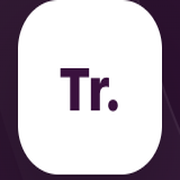
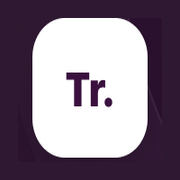
ArenaBridge: update main (8 files)

diff --git a/trackr-app.js b/trackr-app.js
@@ -76,6 +76,10 @@ function applyTheme(theme,save=true){
 }
 function toggleTheme(){applyTheme(document.documentElement.dataset.theme==='dark'?'light':'dark');}
 function initializeTheme(){const saved=localStorage.getItem('trackr-theme');applyTheme(saved==='light'?'light':'dark',false);}
+function syncMobileViewport(){
+  const viewport=window.visualViewport;const height=Math.round(viewport?.height||window.innerHeight);
+  document.documentElement.style.setProperty('--trackr-viewport-height',`${height}px`);
+}
 
 function toast(message, ms=2300){ const el=$('#toast');if(!el)return;el.textContent=message;el.classList.add('show');clearTimeout(toastTimer);toastTimer=setTimeout(()=>el.classList.remove('show'),ms); }
 function setSyncStatus(kind,label){ const el=$('#syncIndicator');if(!el)return;el.className=`sync-indicator ${kind||''}`;const text=$('span',el);if(text)text.textContent=label; }
@@ -147,7 +151,15 @@ function openModal({title,subtitle='',body='',footer='',wide=false,locked=false,
 function closeModal(){ $('#modalRoot').innerHTML='';menuActions=[]; }
 function confirmModal(title,message,confirmText='Delete',danger=true){return new Promise(resolve=>{openModal({title,body:`<div class="danger-copy">${esc(message)}</div>`,footer:`<button class="btn secondary" data-confirm-no>Cancel</button><button class="btn ${danger?'danger':'primary'}" data-confirm-yes>${esc(confirmText)}</button>`});$('[data-confirm-no]').onclick=()=>{closeModal();resolve(false)};$('[data-confirm-yes]').onclick=()=>{closeModal();resolve(true)};});}
 function actionMenu(title,items){menuActions=items;openModal({title,body:`<div class="menu-list">${items.map((it,i)=>`<button class="menu-item ${it.danger?'danger':''}" data-menu-action="${i}"><span class="menu-icon">${icon(it.icon||'info')}</span><span>${esc(it.label)}</span></button>`).join('')}</div>`});}
-function setBusy(form,busy,label){const btn=$('button[type="submit"]',form);if(!btn)return;if(busy){btn.dataset.old=btn.textContent;btn.textContent=label||'Connecting…';btn.disabled=true}else{btn.textContent=btn.dataset.old||btn.textContent;btn.disabled=false}}
+function setBusy(form,busy,label){
+  const btn=$('button[type="submit"]',form);if(!btn)return;
+  if(busy){
+    if(!btn.dataset.oldHtml){btn.dataset.oldHtml=btn.innerHTML;btn.dataset.oldLabel=btn.getAttribute('aria-label')||'Connect and open trackr.';}
+    const busyLabel=label||'Connecting…';btn.innerHTML='<span class="connect-spinner" aria-hidden="true"></span>';btn.setAttribute('aria-label',busyLabel);btn.title=busyLabel;btn.disabled=true;
+  }else{
+    if(btn.dataset.oldHtml)btn.innerHTML=btn.dataset.oldHtml;btn.setAttribute('aria-label',btn.dataset.oldLabel||'Connect and open trackr.');btn.title=btn.dataset.oldLabel||'Connect and open trackr.';delete btn.dataset.oldHtml;delete btn.dataset.oldLabel;btn.disabled=false;
+  }
+}
 
 async function connectGitHub(form){
   const error=$('#githubAuthError');error.textContent='';const config={owner:$('#githubOwner').value.trim(),repo:$('#githubRepo').value.trim(),branch:'main',path:'trackr.json'};const token=$('#githubToken').value.trim();
@@ -167,7 +179,8 @@ function lockApp(){
   if(recording)stopRecording(false);githubToken=null;remoteSha=null;state=null;saveChain=Promise.resolve();$('#modalRoot').innerHTML='';$('#app').classList.add('hidden');$('#app').classList.remove('mobile-detail');$('#auth').classList.remove('hidden');$('#githubToken').value='';$('#githubAuthError').textContent='';setTimeout(()=>$('#githubToken').focus(),100);
 }
 function boot(){
-  initializeTheme();hydrateStaticIcons();applyTheme(document.documentElement.dataset.theme,false);
+  initializeTheme();hydrateStaticIcons();applyTheme(document.documentElement.dataset.theme,false);syncMobileViewport();
+  window.addEventListener('resize',syncMobileViewport,{passive:true});window.visualViewport?.addEventListener('resize',syncMobileViewport,{passive:true});window.addEventListener('orientationchange',()=>setTimeout(syncMobileViewport,120),{passive:true});
   try{const saved=JSON.parse(localStorage.getItem(CONFIG_KEY)||'null');if(saved){$('#githubOwner').value=saved.owner||'';$('#githubRepo').value=saved.repo||'';}}catch{localStorage.removeItem(CONFIG_KEY)}
   if('serviceWorker' in navigator)window.addEventListener('load',()=>navigator.serviceWorker.register('./trackr-service-worker.js').catch(error=>console.warn('Service worker registration failed',error)),{once:true});
 }
@@ -217,7 +230,7 @@ function renderChatSidebar(){
 function renderTrackerSidebar(){
   $('#sidebarHeader').innerHTML=sidebarHeader('Trackers','Systems built your way','new-tracker','New tracker','Search trackers');
   const trackers=state.trackers.filter(t=>t.name.toLowerCase().includes(searchText.toLowerCase()));
-  $('#sidebarContent').innerHTML=trackers.length?`<div class="side-section-title">My trackers</div>${trackers.map(t=>{const topics=t.categories.flatMap(c=>c.topics).length;return `<button class="side-row ${t.id===state.activeTrackerId?'active':''}" data-action="select-tracker" data-id="${t.id}"><span class="side-avatar" style="background:${esc(t.color)};color:#fff">${esc(t.name.charAt(0).toUpperCase())}</span><span class="side-copy"><span class="side-name">${esc(t.name)}</span><span class="side-preview">${t.categories.length} categories · ${topics} topics</span></span><span class="side-time">${getTrackerProgress(t)}%</span></button>`}).join('')}`:`<div class="empty-side">${searchText?'No trackers match your search.':'Create a tracker, then add your own categories and topics.'}</div>`;
+  $('#sidebarContent').innerHTML=trackers.length?`<div class="side-section-title">My trackers</div>${trackers.map(t=>{const topics=t.categories.flatMap(c=>c.topics).length;return `<button class="side-row ${t.id===state.activeTrackerId?'active':''}" data-action="select-tracker" data-id="${t.id}"><span class="side-avatar tracker-side-avatar">${esc(t.name.charAt(0).toUpperCase())}</span><span class="side-copy"><span class="side-name">${esc(t.name)}</span><span class="side-preview">${t.categories.length} categories · ${topics} topics</span></span><span class="side-time">${getTrackerProgress(t)}%</span></button>`}).join('')}`:`<div class="empty-side">${searchText?'No trackers match your search.':'Create a tracker, then add your own categories and topics.'}</div>`;
   $('#sidebarFooter').innerHTML=`<div class="sidebar-footer"><button class="sidebar-footer-btn" data-action="new-tracker">${icon('plus')}<span>Create another tracker</span></button></div>`;
   bindSideSearch();
 }
@@ -268,7 +281,7 @@ function renderTrackerContent(){
   if(!tracker){content.innerHTML=`<div class="empty-main"><div class="empty-card"><div class="empty-illustration">${icon('tracker')}</div><h2>Create your first tracker</h2><p>Add categories and topics for learning, health, projects, or any system you want to build.</p><button class="btn primary icon-text-btn" data-action="new-tracker">${icon('plus')}<span>Create tracker</span></button></div></div>`;return;}
   const progress=getTrackerProgress(tracker); const topicCount=tracker.categories.flatMap(c=>c.topics).length;
   const categories=tracker.categories.length?tracker.categories.map((c,i)=>categoryHTML(tracker,c,i)).join(''):`<div class="no-categories"><b>No categories yet</b>Add your first category, then place topics and notes inside it.</div>`;
-  content.innerHTML=`<header class="content-header tracker-header"><button class="icon-btn mobile-back" data-action="mobile-back" aria-label="Back">${icon('back')}</button><span class="content-title-avatar tracker-title-avatar" style="background:${esc(tracker.color)};color:#fff">${esc(tracker.name.charAt(0).toUpperCase())}</span><div class="content-heading"><h2>${esc(tracker.name)}</h2><p>${esc(tracker.description||`${tracker.categories.length} categories · ${topicCount} topics`)}</p></div><div class="tracker-progress"><div class="progress-label"><span>Overall progress</span><b>${progress}%</b></div><div class="progress-bar"><div class="progress-fill" style="width:${progress}%"></div></div></div><div class="content-actions"><button class="icon-btn" data-action="tracker-menu" data-id="${tracker.id}" aria-label="Tracker options">${icon('more')}</button></div></header><div class="tracker-board-wrap"><div class="tracker-toolbar"><p>Use category and topic menus to edit, move, reorder, or delete.</p><button class="btn primary icon-text-btn" data-action="new-category">${icon('plus')}<span>Add category</span></button></div><div class="category-board">${categories}</div></div>`;
+  content.innerHTML=`<header class="content-header tracker-header"><button class="icon-btn mobile-back" data-action="mobile-back" aria-label="Back">${icon('back')}</button><span class="content-title-avatar tracker-title-avatar">${esc(tracker.name.charAt(0).toUpperCase())}</span><div class="content-heading"><h2>${esc(tracker.name)}</h2><p>${esc(tracker.description||`${tracker.categories.length} categories · ${topicCount} topics`)}</p></div><div class="tracker-progress"><div class="progress-label"><span>Overall progress</span><b>${progress}%</b></div><div class="progress-bar"><div class="progress-fill" style="width:${progress}%"></div></div></div><div class="content-actions"><button class="icon-btn" data-action="tracker-menu" data-id="${tracker.id}" aria-label="Tracker options">${icon('more')}</button></div></header><div class="tracker-board-wrap"><div class="tracker-toolbar"><p>Use category and topic menus to edit, move, reorder, or delete.</p><button class="btn primary icon-text-btn" data-action="new-category">${icon('plus')}<span>Add category</span></button></div><div class="category-board">${categories}</div></div>`;
 }
 function categoryHTML(tracker,c,index){
   const done=c.topics.filter(t=>t.complete).length;

diff --git a/index.html b/index.html
@@ -11,14 +11,14 @@
   <meta name="apple-mobile-web-app-status-bar-style" content="black-translucent">
   <meta name="apple-mobile-web-app-title" content="trackr.">
   <meta name="format-detection" content="telephone=no">
-  <link rel="icon" type="image/png" sizes="32x32" href="./trackr-favicon.png?v=2">
-  <link rel="icon" type="image/png" sizes="192x192" href="./trackr-icon-192.png?v=2">
-  <link rel="shortcut icon" href="./trackr-favicon.png?v=2">
-  <link rel="apple-touch-icon" sizes="180x180" href="./trackr-icon-180.png?v=2">
-  <link rel="apple-touch-icon-precomposed" href="./trackr-icon-180.png?v=2">
-  <link rel="manifest" href="./trackr-manifest.json?v=2">
+  <link rel="icon" type="image/png" sizes="32x32" href="./trackr-favicon.png?v=5">
+  <link rel="icon" type="image/png" sizes="192x192" href="./trackr-icon-192.png?v=5">
+  <link rel="shortcut icon" href="./trackr-favicon.png?v=5">
+  <link rel="apple-touch-icon" sizes="180x180" href="./trackr-icon-180.png?v=5">
+  <link rel="apple-touch-icon-precomposed" href="./trackr-icon-180.png?v=5">
+  <link rel="manifest" href="./trackr-manifest.json?v=5">
   <title>trackr. — Your private space</title>
-  <link rel="stylesheet" href="./trackr-styles.css?v=2">
+  <link rel="stylesheet" href="./trackr-styles.css?v=5">
 </head>
 <body>
   <div id="auth" class="auth-shell">
@@ -42,23 +42,26 @@
         <div class="auth-icon"><span data-icon="github"></span></div>
         <p class="step-label">CONNECT PRIVATE DATA</p>
         <h2>Connect GitHub</h2>
-        <p class="auth-help">Enter a fine-grained PAT restricted to one private data repository. The token is never saved and is requested again after a refresh, close, or lock.</p>
-        <div class="auth-grid">
-          <div>
-            <label class="field-label" for="githubOwner">GitHub username</label>
-            <input class="auth-input" id="githubOwner" maxlength="80" placeholder="your-username" required autocapitalize="none" spellcheck="false">
+        <div class="auth-fields">
+          <div class="auth-pair-row">
+            <div class="auth-field">
+              <label class="field-label" for="githubOwner">GitHub username</label>
+              <input class="auth-input" id="githubOwner" maxlength="80" placeholder="your-username" required autocapitalize="none" spellcheck="false">
+            </div>
+            <div class="auth-field">
+              <label class="field-label" for="githubRepo">Private repository</label>
+              <input class="auth-input" id="githubRepo" maxlength="100" placeholder="trackr-private-data" required autocapitalize="none" spellcheck="false">
+            </div>
           </div>
-          <div>
-            <label class="field-label" for="githubRepo">Private repository</label>
-            <input class="auth-input" id="githubRepo" maxlength="100" placeholder="trackr-private-data" required autocapitalize="none" spellcheck="false">
+          <div class="auth-connect-row">
+            <div class="auth-field auth-token-field">
+              <label class="field-label" for="githubToken">Fine-grained personal access token</label>
+              <div class="pin-field"><input id="githubToken" type="password" placeholder="github_pat_…" required autocomplete="off" autocapitalize="none" spellcheck="false" data-1p-ignore data-lpignore="true"><button class="reveal-btn" type="button" data-reveal="githubToken" aria-label="Show token">Show</button></div>
+            </div>
+            <button class="auth-connect-btn" type="submit" title="Connect and open trackr." aria-label="Connect and open trackr."><span data-icon="arrowRight"></span></button>
           </div>
         </div>
-        <p class="fixed-data-note">trackr. will use the <b>main</b> branch and the fixed private data file <b>trackr.json</b>.</p>
-        <label class="field-label" for="githubToken">Fine-grained personal access token</label>
-        <div class="pin-field"><input id="githubToken" type="password" placeholder="github_pat_…" required autocomplete="off" autocapitalize="none" spellcheck="false" data-1p-ignore data-lpignore="true"><button class="reveal-btn" type="button" data-reveal="githubToken" aria-label="Show token">Show</button></div>
-        <div class="token-note"><b>Saved locally:</b> only your GitHub username and private repository name. <b>Not saved:</b> your PAT, which is requested every session.</div>
         <p id="githubAuthError" class="form-error" role="alert"></p>
-        <button class="btn primary wide" type="submit">Connect and open trackr.</button>
       </form>
       <p class="privacy-line">GitHub PAT required every session · No AI · No analytics</p>
     </section>
@@ -98,6 +101,6 @@
 
   <div id="modalRoot"></div>
   <div id="toast" class="toast" role="status" aria-live="polite"></div>
-  <script src="./trackr-app.js?v=2"></script>
+  <script src="./trackr-app.js?v=5"></script>
 </body>
 </html>

diff --git a/trackr-styles.css b/trackr-styles.css
@@ -217,3 +217,51 @@ html[data-theme="dark"] .privacy-line{color:#aaa1ab;background:none}
   .mobile-nav:after{content:"";position:absolute;z-index:-1;left:0;right:0;bottom:calc(-1 * var(--safe-bottom));height:calc(var(--safe-bottom) + 4px);background:var(--nav-surface)}
   .workspace-sidebar,.workspace-content{bottom:calc(60px + var(--safe-bottom))}
 }
+
+/* iPhone-focused refinements */
+.tracker-side-avatar,.tracker-title-avatar{background:var(--conversation-icon-bg)!important;color:var(--conversation-icon-ink)!important}
+
+html[data-theme="dark"] .settings-card-head,
+html[data-theme="dark"] .setting-row{border-color:#3d373e}
+html[data-theme="dark"] .settings-title p,
+html[data-theme="dark"] .settings-card-head p,
+html[data-theme="dark"] .setting-copy span,
+html[data-theme="dark"] .install-steps{color:#a69fa7}
+html[data-theme="dark"] .settings-card-head h3,
+html[data-theme="dark"] .setting-copy b{color:#e7e1e8}
+html[data-theme="dark"] .settings-card{border-color:#3d373e;box-shadow:none}
+html[data-theme="dark"] .storage-note{background:#29241f;border-color:#544b37;color:#bdb49e}
+
+@media(max-width:760px){
+  html,body{height:var(--trackr-viewport-height,100dvh)!important;min-height:var(--trackr-viewport-height,100dvh)!important;background:var(--nav-surface)!important}
+  body:after{content:"";position:fixed;z-index:70;left:0;right:0;bottom:0;height:max(6px,var(--safe-bottom));background:var(--nav-surface);pointer-events:none}
+  .auth-shell,.app-shell{height:var(--trackr-viewport-height,100dvh)!important;min-height:var(--trackr-viewport-height,100dvh)!important;background:var(--surface)!important}
+  .auth-form-wrap{min-height:var(--trackr-viewport-height,100dvh)!important}
+  .workspace-content,.content-scroll,.message-list{background:var(--surface)!important}
+  .mobile-nav{position:fixed!important;bottom:0!important;height:calc(60px + var(--safe-bottom))!important;padding:5px 5px max(5px,var(--safe-bottom))!important;background:var(--nav-surface)!important;box-shadow:0 -1px 0 var(--line)}
+  .mobile-nav:after{bottom:0;height:max(6px,var(--safe-bottom));background:var(--nav-surface)}
+  .workspace-sidebar,.workspace-content{bottom:calc(60px + var(--safe-bottom))!important}
+  .settings-page{padding-top:calc(18px + var(--safe-top))!important}
+}
+
+/* Compact two-row GitHub connection form */
+.auth-card{width:min(500px,100%)}
+.auth-fields{display:flex;flex-direction:column;gap:14px;margin-top:22px}
+.auth-pair-row{display:grid;grid-template-columns:minmax(0,1fr) minmax(0,1fr);gap:12px}
+.auth-connect-row{display:grid;grid-template-columns:minmax(0,1fr) 46px;gap:12px;align-items:end}
+.auth-field{min-width:0}
+.auth-field .field-label{margin:0 0 6px}
+.auth-field .auth-input,.auth-field .pin-field input{height:46px}
+.auth-field .pin-field input{padding-top:0;padding-bottom:0}
+.auth-connect-btn{width:46px;height:46px;border:0;border-radius:10px;background:var(--slack);color:#fff;display:grid;place-items:center;transition:background .16s,transform .16s}
+.auth-connect-btn:hover{background:#350d36}
+.auth-connect-btn:active{transform:scale(.97)}
+.auth-connect-btn:focus-visible{outline:3px solid rgba(18,100,163,.3);outline-offset:2px}
+.auth-connect-btn:disabled{cursor:wait;opacity:.7}
+.auth-connect-btn .ui-icon{width:20px;height:20px}
+.auth-connect-btn .connect-spinner{width:18px;height:18px;border:2px solid rgba(255,255,255,.4);border-top-color:#fff;border-radius:50%;animation:auth-spin .7s linear infinite}
+@keyframes auth-spin{to{transform:rotate(360deg)}}
+html[data-theme="dark"] .auth-connect-btn{background:#d8bddb;color:#2f1831}
+html[data-theme="dark"] .auth-connect-btn:hover{background:#e7d4e9}
+html[data-theme="dark"] .auth-connect-btn .connect-spinner{border-color:rgba(47,24,49,.25);border-top-color:#2f1831}
+@media(max-width:760px){.auth-fields{gap:13px;margin-top:19px}.auth-pair-row,.auth-connect-row{gap:9px}.auth-connect-row{grid-template-columns:minmax(0,1fr) 48px}.auth-field .auth-input,.auth-field .pin-field input,.auth-connect-btn{height:48px}.auth-connect-btn{width:48px}.auth-field .field-label{font-size:11px;white-space:nowrap}}

diff --git a/trackr-service-worker.js b/trackr-service-worker.js
@@ -1,4 +1,4 @@
-const CACHE = 'trackr-static-v4';
+const CACHE = 'trackr-static-v7';
 const APP_FILES = [
   './',
   './index.html',
